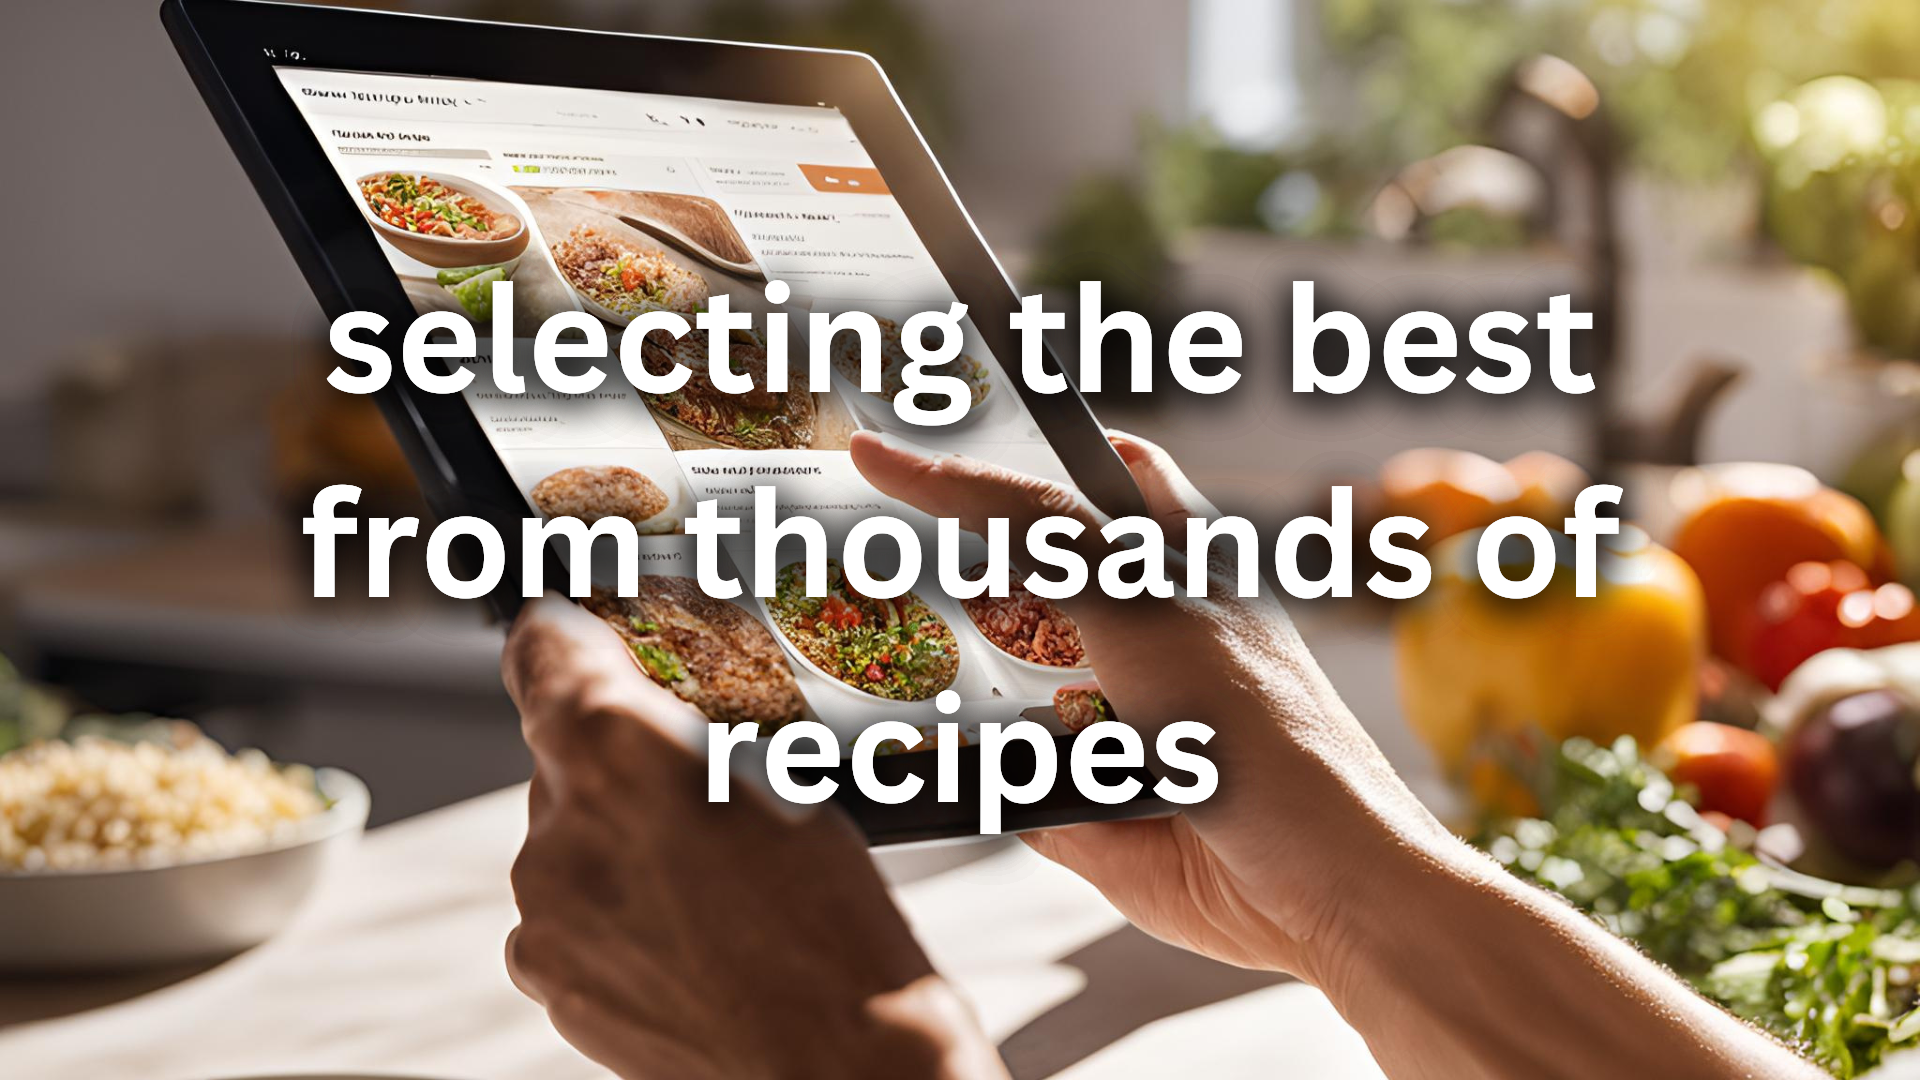
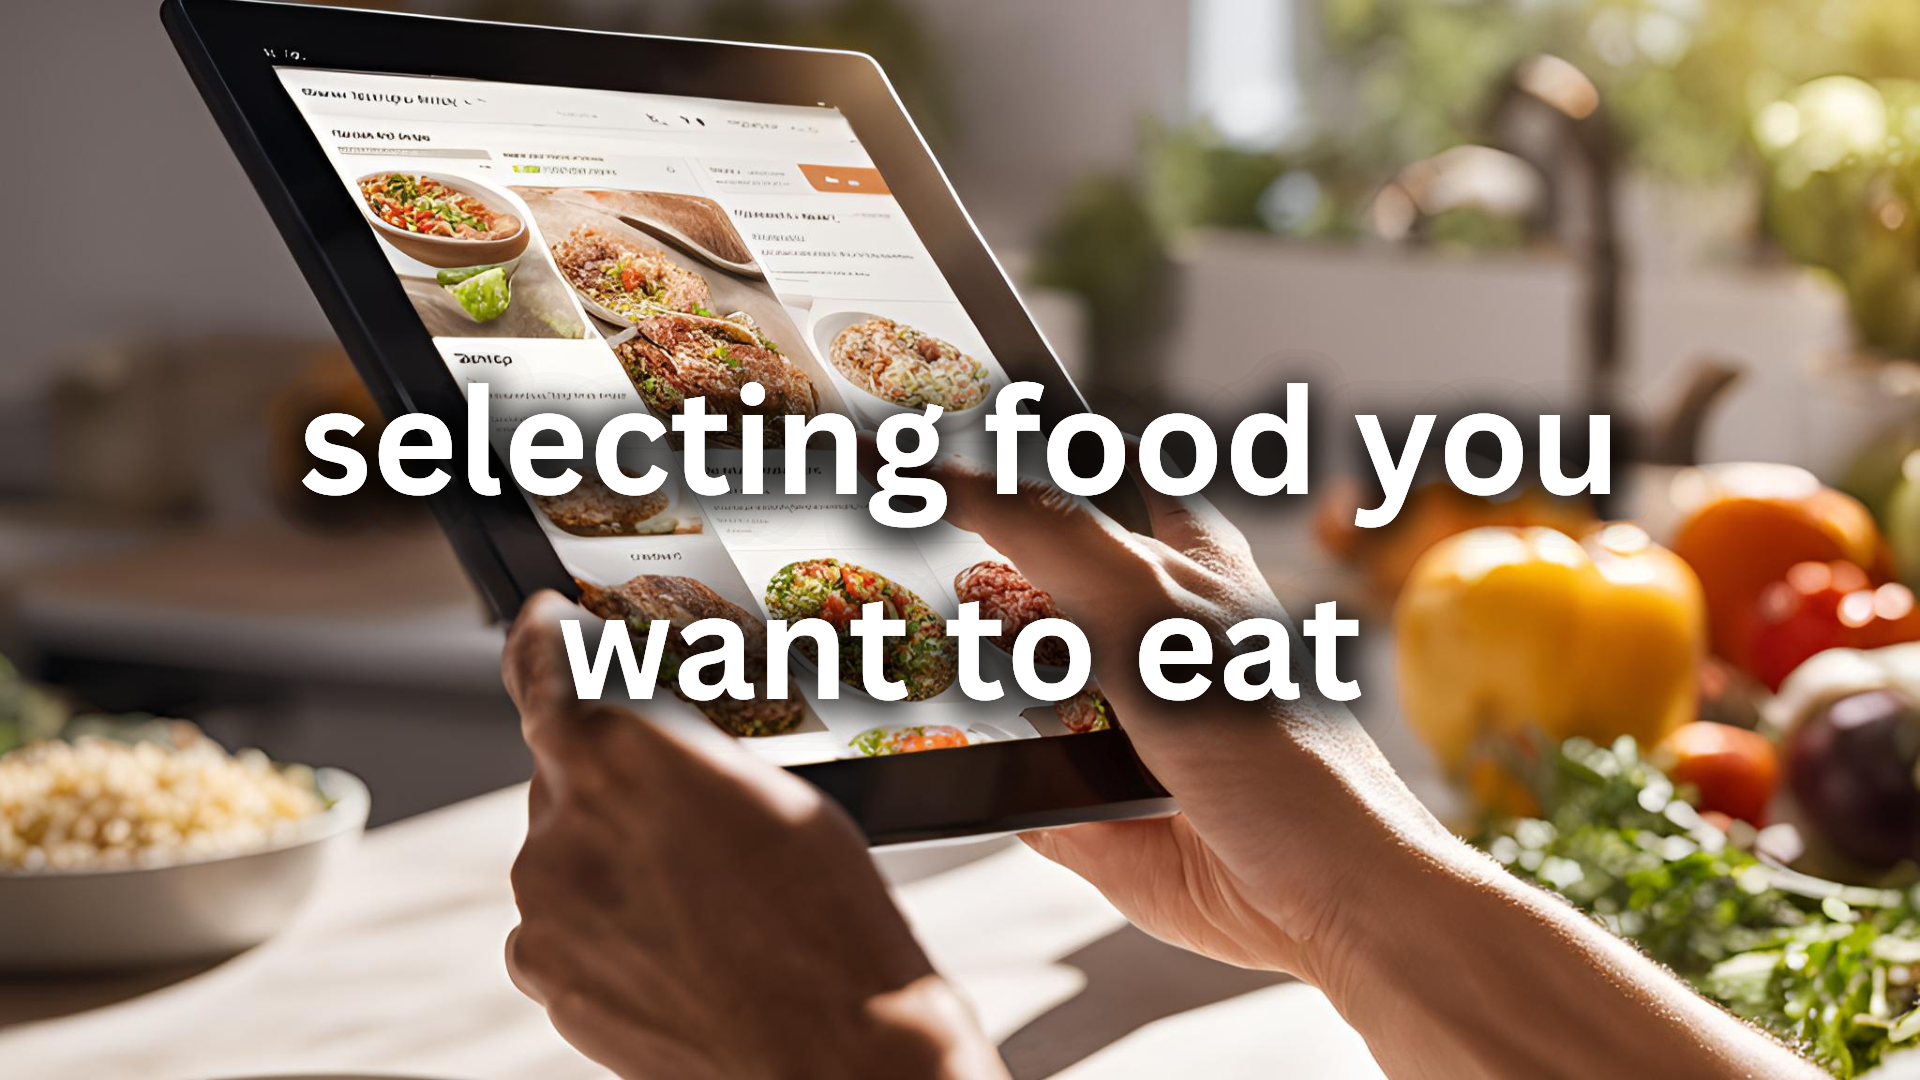
fix: change text on carousel image 10, delete red text on landing page

Changed region(s): [[0.125, 0.2444, 0.875, 0.7944]]

diff --git a/frontend/src/app/components/landing/landing.component.html b/frontend/src/app/components/landing/landing.component.html
@@ -4,10 +4,10 @@
   #start
 >
   <div class="w-full max-w-xl p-8 bg-white rounded-lg shadow-lg" id="homepage-landing">
-    <h1 class="text-red">
+    <!-- <h1 class="text-red">
       MealPlanIQ is currently in beta and we are working to make it better! We
       appreciate your patience.
-    </h1>
+    </h1> -->
     <!-- <h1>
       Fighting cancer, heart disease, or diabetes? Want to lose weight or gain
       muscle?
